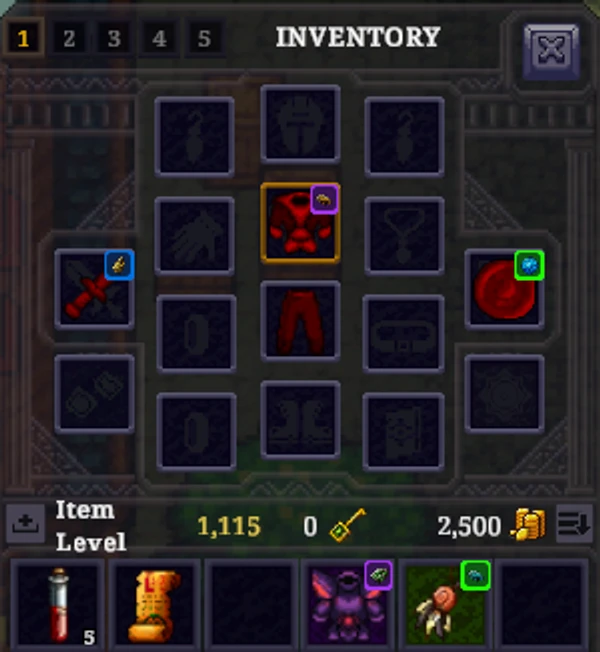
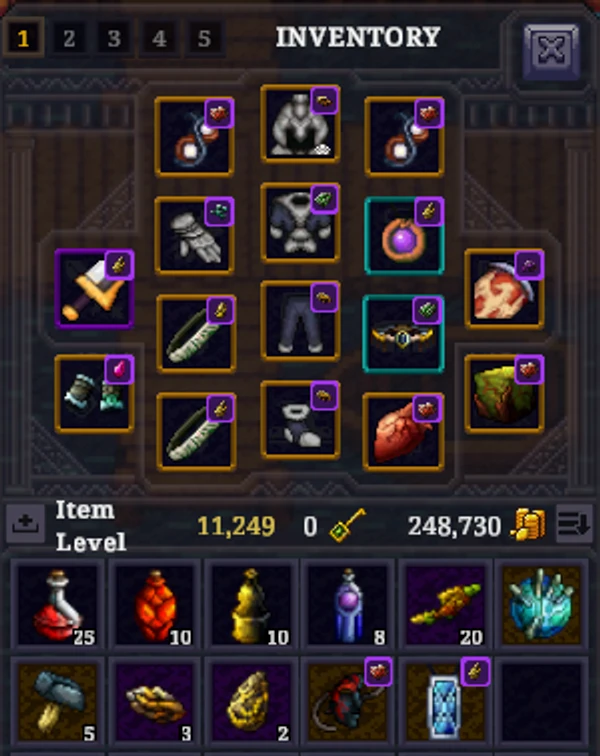
docs(mods): show augment marks on /mods and archive the change
Augment marks ships in 1.4.0, so /mods gets its card with the equipment
grid of a BIS Warrior, where the marks are large enough to read, and the
README takes the same gear's inventory instead of starter items. The
change's requirements move into the main specs, with a written Purpose
and the bank scenario back under the requirement it tests.

diff --git a/website/src/routes/mods/+page.svelte b/website/src/routes/mods/+page.svelte
@@ -52,6 +52,12 @@
       alt: "The Catacombs Fatecharm beside Captain Aerendyl's level, with its tooltip.",
     },
     {
+      title: "Augment Marks",
+      text: "Marks each item that has an augment with the augment's icon.",
+      image: "/mod-pictures/card-augment-marks.webp",
+      alt: "A Warrior's equipment in Dreadguard armor, with an augment's icon on every piece.",
+    },
+    {
       title: "Settings",
       text: "Switch each feature on or off and change how it looks. Press F8 to open the settings.",
       image: "/mod-pictures/card-settings.webp",

diff --git a/openspec/specs/item-augment-marks/spec.md b/openspec/specs/item-augment-marks/spec.md
@@ -1,0 +1,52 @@
+# item-augment-marks Specification
+
+## Purpose
+Pocket Compendium shows on each item slot which augment the item carries, so players see their augments without hovering over every piece.
+
+## Requirements
+
+### Requirement: An augmented item's slot shows its augment
+
+While augment marks is on, every slot in the inventory window, including its equipment slots, the combined backpack, the bank and the house chest SHALL show, for an item that has an augment, the augment's icon in a small frame in the slot's top-right corner. The frame SHALL take the augment's quality colour as the game colours items: green for Uncommon, blue for Magic and purple for Epic.
+
+#### Scenario: A Great augment on worn armour
+
+- **WHEN** the player wears a chestplate with a Great Titanite Shard and opens the inventory
+- **THEN** the chest slot shows the Titanite Shard's icon in a purple frame in its top-right corner
+
+#### Scenario: Gear in the bank
+
+- **WHEN** the player opens the bank, where a ring with a Small Mana Shard is stored
+- **THEN** the ring's slot shows the Mana Shard's icon in a green frame
+
+### Requirement: Only augments get a mark
+
+A slot whose item has no augment, or whose stored name is not an augment, such as a pet's name, SHALL show no mark.
+
+#### Scenario: An item without an augment
+
+- **WHEN** the player's pants carry no augment
+- **THEN** the pants' slot shows no mark
+
+### Requirement: Marks follow the items
+
+A mark SHALL follow its item as it moves between slots and windows, and SHALL disappear when the augment is removed or the item leaves the slot.
+
+#### Scenario: Removing an augment
+
+- **WHEN** the Augmenter removes the augment from the player's sword
+- **THEN** the sword's slot shows no mark
+
+#### Scenario: Moving an item
+
+- **WHEN** the player drags an augmented chestplate from the inventory into the bank
+- **THEN** the mark shows on the bank slot and no longer on the inventory slot
+
+### Requirement: Switching augment marks off removes them
+
+Switching augment marks off SHALL remove every mark it drew.
+
+#### Scenario: Switching off
+
+- **WHEN** the player switches augment marks off with the inventory open
+- **THEN** no slot shows a mark

diff --git a/openspec/specs/mod-settings-layout/spec.md b/openspec/specs/mod-settings-layout/spec.md
@@ -21,7 +21,7 @@ Each feature SHALL have its own on and off switch, shown as a row in its group o
 
 ### Requirement: Features sit in three groups
 
-The groups SHALL be Respawns, with the boss list, map pins, dungeon entrances, world markers, edge arrows, alerts and sharing, Bestiary, with full Bestiary pages, Bestiary countdowns and drops found, and Combat, with boss skills and Fatecharms.
+The groups SHALL be Respawns, with the boss list, map pins, dungeon entrances, world markers, edge arrows, alerts and sharing, Bestiary, with full Bestiary pages, Bestiary countdowns and drops found, and Combat, with boss skills, Fatecharms and augment marks.
 
 #### Scenario: Finding edge arrows
 
@@ -32,6 +32,11 @@ The groups SHALL be Respawns, with the boss list, map pins, dungeon entrances, w
 
 - **WHEN** the player opens Bestiary in the settings window
 - **THEN** a row reads "Drops found" with "Shows a bar on each monster in the Bestiary that fills as you find its drops."
+
+#### Scenario: Finding augment marks
+
+- **WHEN** the player opens Combat in the settings window
+- **THEN** a row below Fatecharms reads "Augment marks" with "Marks each item that has an augment with the augment's icon."
 
 ### Requirement: A feature's settings sit behind a gear
 

diff --git a/mods/PocketCompendium/README.md b/mods/PocketCompendium/README.md
@@ -57,7 +57,7 @@ Warns you when killing your target would use your Fatecharm.
 
 Marks each item that has an augment with the augment's icon, in your inventory, backpack, bank and house chest. The frame takes the augment's quality colour.
 
-![The inventory with augment marks on the worn chestplate, sword and shield, and on a chestplate and an amulet in the bags.](../../assets/pocket-compendium-augments.webp)
+![A Warrior's inventory in Dreadguard armor, with an augment's icon on every piece of gear and on two spare pieces in the bags.](../../assets/pocket-compendium-augments.webp)
 
 ## Problems and ideas
 
